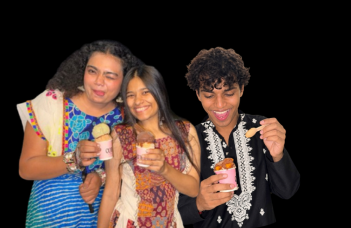
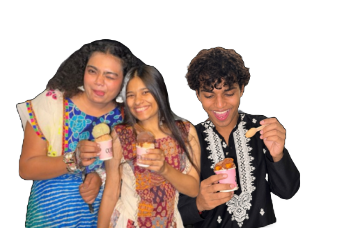
Format and space story paragraphs for punchy joke delivery and layout balance

diff --git a/styles.css b/styles.css
@@ -70,9 +70,9 @@ button:focus:not(:focus-visible), a:focus:not(:focus-visible) {
 .about-page .main-nav a:hover { opacity: .55; }
 .about-story { position: relative; display: flex; min-height: 100svh; box-sizing: border-box; flex-direction: column; align-items: center; justify-content: center; overflow: hidden; padding: clamp(60px, 8vh, 85px) 5% clamp(25px, 4vh, 40px); text-align: center; background: #000; }
 .about-kicker { margin: 0 0 clamp(6px, 1vh, 10px); color: #ffffffb8; font-size: .74rem; font-weight: 700; letter-spacing: .18em; text-transform: uppercase; }
-.about-story h1 { margin: 0 auto clamp(20px, 3.2vh, 32px); font-family: var(--sans); font-size: clamp(2.3rem, 4vw, 3.2rem); font-weight: 700; letter-spacing: -.03em; line-height: 1.1; text-transform: lowercase; }
-.about-copy { width: min(580px, 92%); margin: 0 auto; font-family: var(--sans); font-size: clamp(1.05rem, 1.4vw, 1.25rem); letter-spacing: -.01em; line-height: 1.38; color: #fff; }
-.about-copy p { margin: 0 0 clamp(18px, 2.6vh, 26px); }
+.about-story h1 { margin: 0 auto clamp(16px, 2.5vh, 26px); font-family: var(--sans); font-size: clamp(2.3rem, 4vw, 3.2rem); font-weight: 700; letter-spacing: -.03em; line-height: 1.1; text-transform: lowercase; }
+.about-copy { width: min(640px, 92%); margin: 0 auto; font-family: var(--sans); font-size: clamp(0.98rem, 1.2vw, 1.14rem); letter-spacing: -.01em; line-height: 1.48; color: #fff; }
+.about-copy p { margin: 0 0 clamp(12px, 1.8vh, 18px); }
 .about-copy p:last-child { margin-bottom: 0; }
 .about-story .pill-link { position: relative; z-index: 2; min-height: 50px; padding: 0 28px; font-size: .88rem; color: #111; border: 0; background: #fff; }
 .about-globe { display: block; width: clamp(75px, 9vh, 92px); height: clamp(75px, 9vh, 92px); margin: 0 auto 16px; object-fit: contain; }

diff --git a/about.html b/about.html
@@ -19,9 +19,10 @@
       <img class="about-globe" src="assets/admin.gif" alt="" aria-hidden="true">
       <h1 id="about-title">our story</h1>
       <div class="about-copy">
-        <p>we take places seriously because they're where our memories are made. where our lives are lived.</p>
-        <p>so why do we decide where to go based on how viral it is? how aesthetic? how 1,000 random people rated it?</p>
-        <p>we built the first map for people who actually care about where they're going.</p>
+        <p>We love cafe hopping, but finding spots that actually hit the vibe shouldn't feel like hunting for a missing semicolon in a thousand lines of Java.</p>
+        <p>Gmap is great if you want to know where everyone and their UNC goes, but it won't tell you where the coffee is actually good or where the crowd isn't having the espresso tonic. SRT has way too many quiet, low-key spots gatekept by the cool kids.</p>
+        <p>So, we built WHERE?—a raw, uncorrupted map with zero influence from the manipulation gang.</p>
+        <p>Just pure, unfiltered recommendations for people who actually care where they sit.</p>
       </div>
       <img class="about-story__bottom about-story__bottom--left" src="assets/about-left.png" alt="" aria-hidden="true">
       <img class="about-story__bottom about-story__bottom--right" src="assets/about-right.png" alt="" aria-hidden="true">
